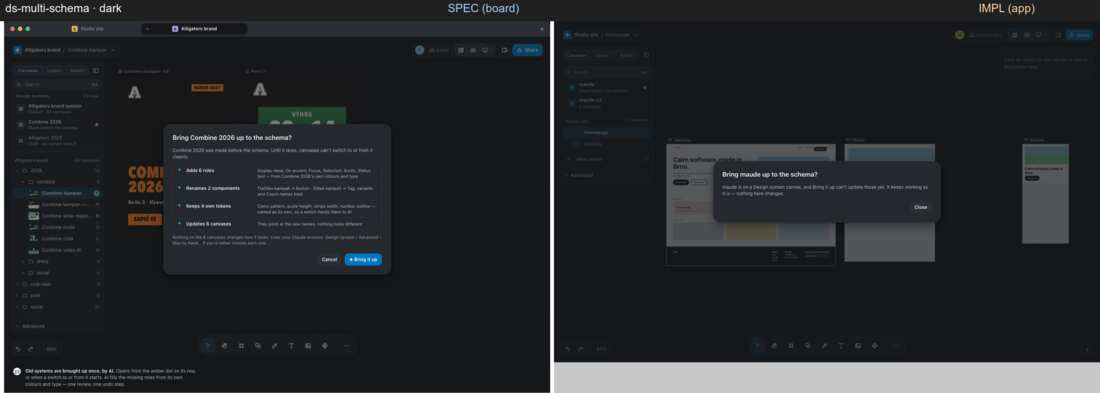
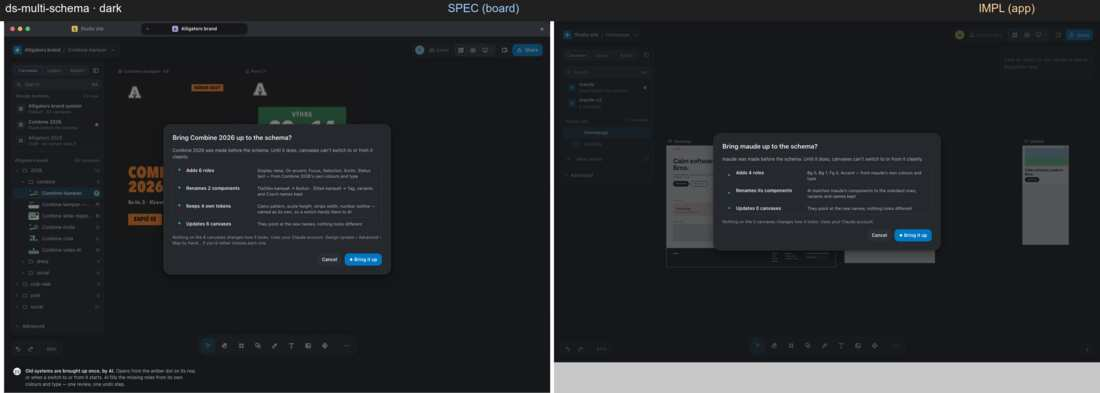
p8-r11-1213: re-shoot 12 (ia-assets-find, ia-placed, ia-photo-inspector) and 13 (ds-multi-migrate, ds-edge-migrate, ds-multi-schema), both themes; INDEX round 11

diff --git a/.ai/plans/notes/v2-evidence/phase8-fidelity/13-design-system/INDEX.md b/.ai/plans/notes/v2-evidence/phase8-fidelity/13-design-system/INDEX.md
@@ -617,3 +617,17 @@ Shot on the Mac mini (`scripts/remote-lane.sh`) with its installed Google Chrome
 | ds-where-gator, ds-where-studio | re-shot | re-shot |  |
 | ds-many-library | unreachable - a team library lives on a hub; no real hub is booted in this lane (safety rule), so the library rows cannot be drawn | unreachable - same | the pair is the grey "not reachable" card (unchanged) |
 | ds-many-linked | unreachable - a linked team library needs a hub; no real hub is booted in this lane | unreachable - same | the pair is the grey "not reachable" card (unchanged) |
+
+## Round 11 (p8-r11-1213) — three sheet pairs re-shot on a pre-convert fixture
+
+Re-shot 6 of 60 pairs (ds-multi-migrate, ds-edge-migrate, ds-multi-schema x light + dark), on the branch tip after D7. Everything else in this folder is unchanged (the D7 section above stands). Full-size pairs: last line of `full-size-path.txt` ("round 11: ..."). No match judged here.
+
+Why the D7 pairs differed: the harness fixture copied this repo's own `.design/system/{maude,maude-v2}`, which are Design system canvases since `88d671dee` (`ds convert`), so the Convert sheet was refused with the "already a Design system canvas" toast and Bring it up answered with the "can't update those yet ... Close" variant. The fixture now strips what that commit added (`design-system.{tsx,meta.json}`, `revisions/`, `"source": "canvas"` back to `"css"`; checked byte for byte against `88d671dee^`), so the shots show the board's sheets again.
+
+| id | light | dark | note |
+| --- | --- | --- | --- |
+| ds-multi-migrate | re-shot | re-shot | "Convert 3 system folders?": folder rows with Design system canvas / Draft chips, Cancel / Convert |
+| ds-edge-migrate | re-shot | re-shot | "Convert system/maude-v2 into its Design system canvas?": the 7-section map, Cancel / Convert |
+| ds-multi-schema | re-shot | re-shot | "Bring maude up to the schema?": Adds 4 roles, Renames its components, Updates 0 canvases, Cancel / Bring it up; the amber dot "Made before the schema" on the `maude` row behind |
+
+Product check (amber dot next to the "already a Design system canvas" sheet): it only occurs for a system that is converted AND made before the schema (ds-check level 11), a state the D7 fixture built by accident. It is by decision (kg `S10.15a: bring-up refuses a converted system for now`, `S10.15b: the bring-up dialog's face derives from status`), and the board's own Convert sheet footnote names it ("A converted system made before the schema shows an amber dot — Bring it up lines it up"). On an unconverted pre-schema system dot and sheet agree (the shots above). Not changed; open question for the lead: Bring it up for a converted system needs the publish-based path.

diff --git a/.ai/plans/notes/v2-evidence/phase8-fidelity/12-import-and-assets/fix-r11-1213.md b/.ai/plans/notes/v2-evidence/phase8-fidelity/12-import-and-assets/fix-r11-1213.md
@@ -1,0 +1,7 @@
+# fix-r11-1213 — round 11, canvases 12 and 13 (branch p8-r11-1213)
+
+**13 (harness, no product change).** ds-multi-schema, ds-multi-migrate, ds-edge-migrate showed a toast / the "can't update those yet" sheet in D7 because the fixture's systems were already Design system canvases (this repo's own `.design/system/{maude,maude-v2}` were converted in `88d671dee`). `_d7-harness-g3/g5/scr/fx5.mjs` `unconvert()` now strips what that commit added (checked byte for byte against `88d671dee^`); new chain `13m` shoots just the three sheets. Re-shot both themes: the Convert 3 folders sheet, the 7-section Convert sheet and "Bring maude up to the schema?" are back.
+
+**Product check, amber dot vs "already a Design system canvas".** Real only for a system that is converted AND level 11; not for an unconverted pre-schema one (dot and sheet agree). It is a decided state (kg: S10.15a refuses a converted system for now; S10.15b derives the sheet's face from status) and the board's Convert footnote promises "Bring it up lines it up". Not changed. Open: a converted pre-schema system gets the dot and a menu row "Bring it up to the schema..." that ends in the "can't update those yet" face; closing that needs the publish-based bring-up path (or hiding the menu row for converted systems).
+
+**12 (re-shoot only).** ia-assets-find, ia-placed, ia-photo-inspector, both themes, on the tip with `d48530fb2`.

diff --git a/.ai/plans/notes/v2-evidence/phase8-fidelity/13-design-system/fix-r11-1213.md b/.ai/plans/notes/v2-evidence/phase8-fidelity/13-design-system/fix-r11-1213.md
@@ -1,0 +1,7 @@
+# fix-r11-1213 — round 11, canvases 12 and 13 (branch p8-r11-1213)
+
+**13 (harness, no product change).** ds-multi-schema, ds-multi-migrate, ds-edge-migrate showed a toast / the "can't update those yet" sheet in D7 because the fixture's systems were already Design system canvases (this repo's own `.design/system/{maude,maude-v2}` were converted in `88d671dee`). `_d7-harness-g3/g5/scr/fx5.mjs` `unconvert()` now strips what that commit added (checked byte for byte against `88d671dee^`); new chain `13m` shoots just the three sheets. Re-shot both themes: the Convert 3 folders sheet, the 7-section Convert sheet and "Bring maude up to the schema?" are back.
+
+**Product check, amber dot vs "already a Design system canvas".** Real only for a system that is converted AND level 11; not for an unconverted pre-schema one (dot and sheet agree). It is a decided state (kg: S10.15a refuses a converted system for now; S10.15b derives the sheet's face from status) and the board's Convert footnote promises "Bring it up lines it up". Not changed. Open: a converted pre-schema system gets the dot and a menu row "Bring it up to the schema..." that ends in the "can't update those yet" face; closing that needs the publish-based bring-up path (or hiding the menu row for converted systems).
+
+**12 (re-shoot only).** ia-assets-find, ia-placed, ia-photo-inspector, both themes, on the tip with `d48530fb2`.

diff --git a/.ai/plans/notes/v2-evidence/phase8-fidelity/12-import-and-assets/INDEX.md b/.ai/plans/notes/v2-evidence/phase8-fidelity/12-import-and-assets/INDEX.md
@@ -177,3 +177,13 @@ Every reachable id re-shot, light + dark, IMPL side only, on the merged tip `fea
 | ia-more-ways, ia-gen-placed, ia-figma-arrived, ia-figjam, ia-brand, ia-missing, ia-edges | unreachable | unreachable | unchanged: native picker/paste, BYOK provider, Figma API, a reachable website, synced peer, nine external conditions |
 
 Harness note: picture fixtures are drawn in Chromium (no ImageMagick on the runner). 19 ids x 2 themes = 38 pairs.
+
+## Round 11 (p8-r11-1213) — three pairs re-shot after the contrast and font fixes
+
+Re-shot 6 of 38 pairs, 5 changed (ia-assets-find, ia-placed, ia-photo-inspector x light + dark) on the branch tip after D7 (includes `d48530fb2`: dark AA contrast on the Assets search/hint, Photo section buttons in the body font). Everything else in this folder is unchanged. Full-size pairs: last line of `full-size-path.txt` ("round 11: ..."). No match judged here.
+
+| id | light | dark | note |
+| --- | --- | --- | --- |
+| ia-assets-find | re-shot (pixel-identical to D7: the fix was dark only) | re-shot | `s12` |
+| ia-placed | re-shot | re-shot | `s12h` (the first `s12` try logs `no filechooser`; a later scenario wins) |
+| ia-photo-inspector | re-shot | re-shot | `s12c7` |
